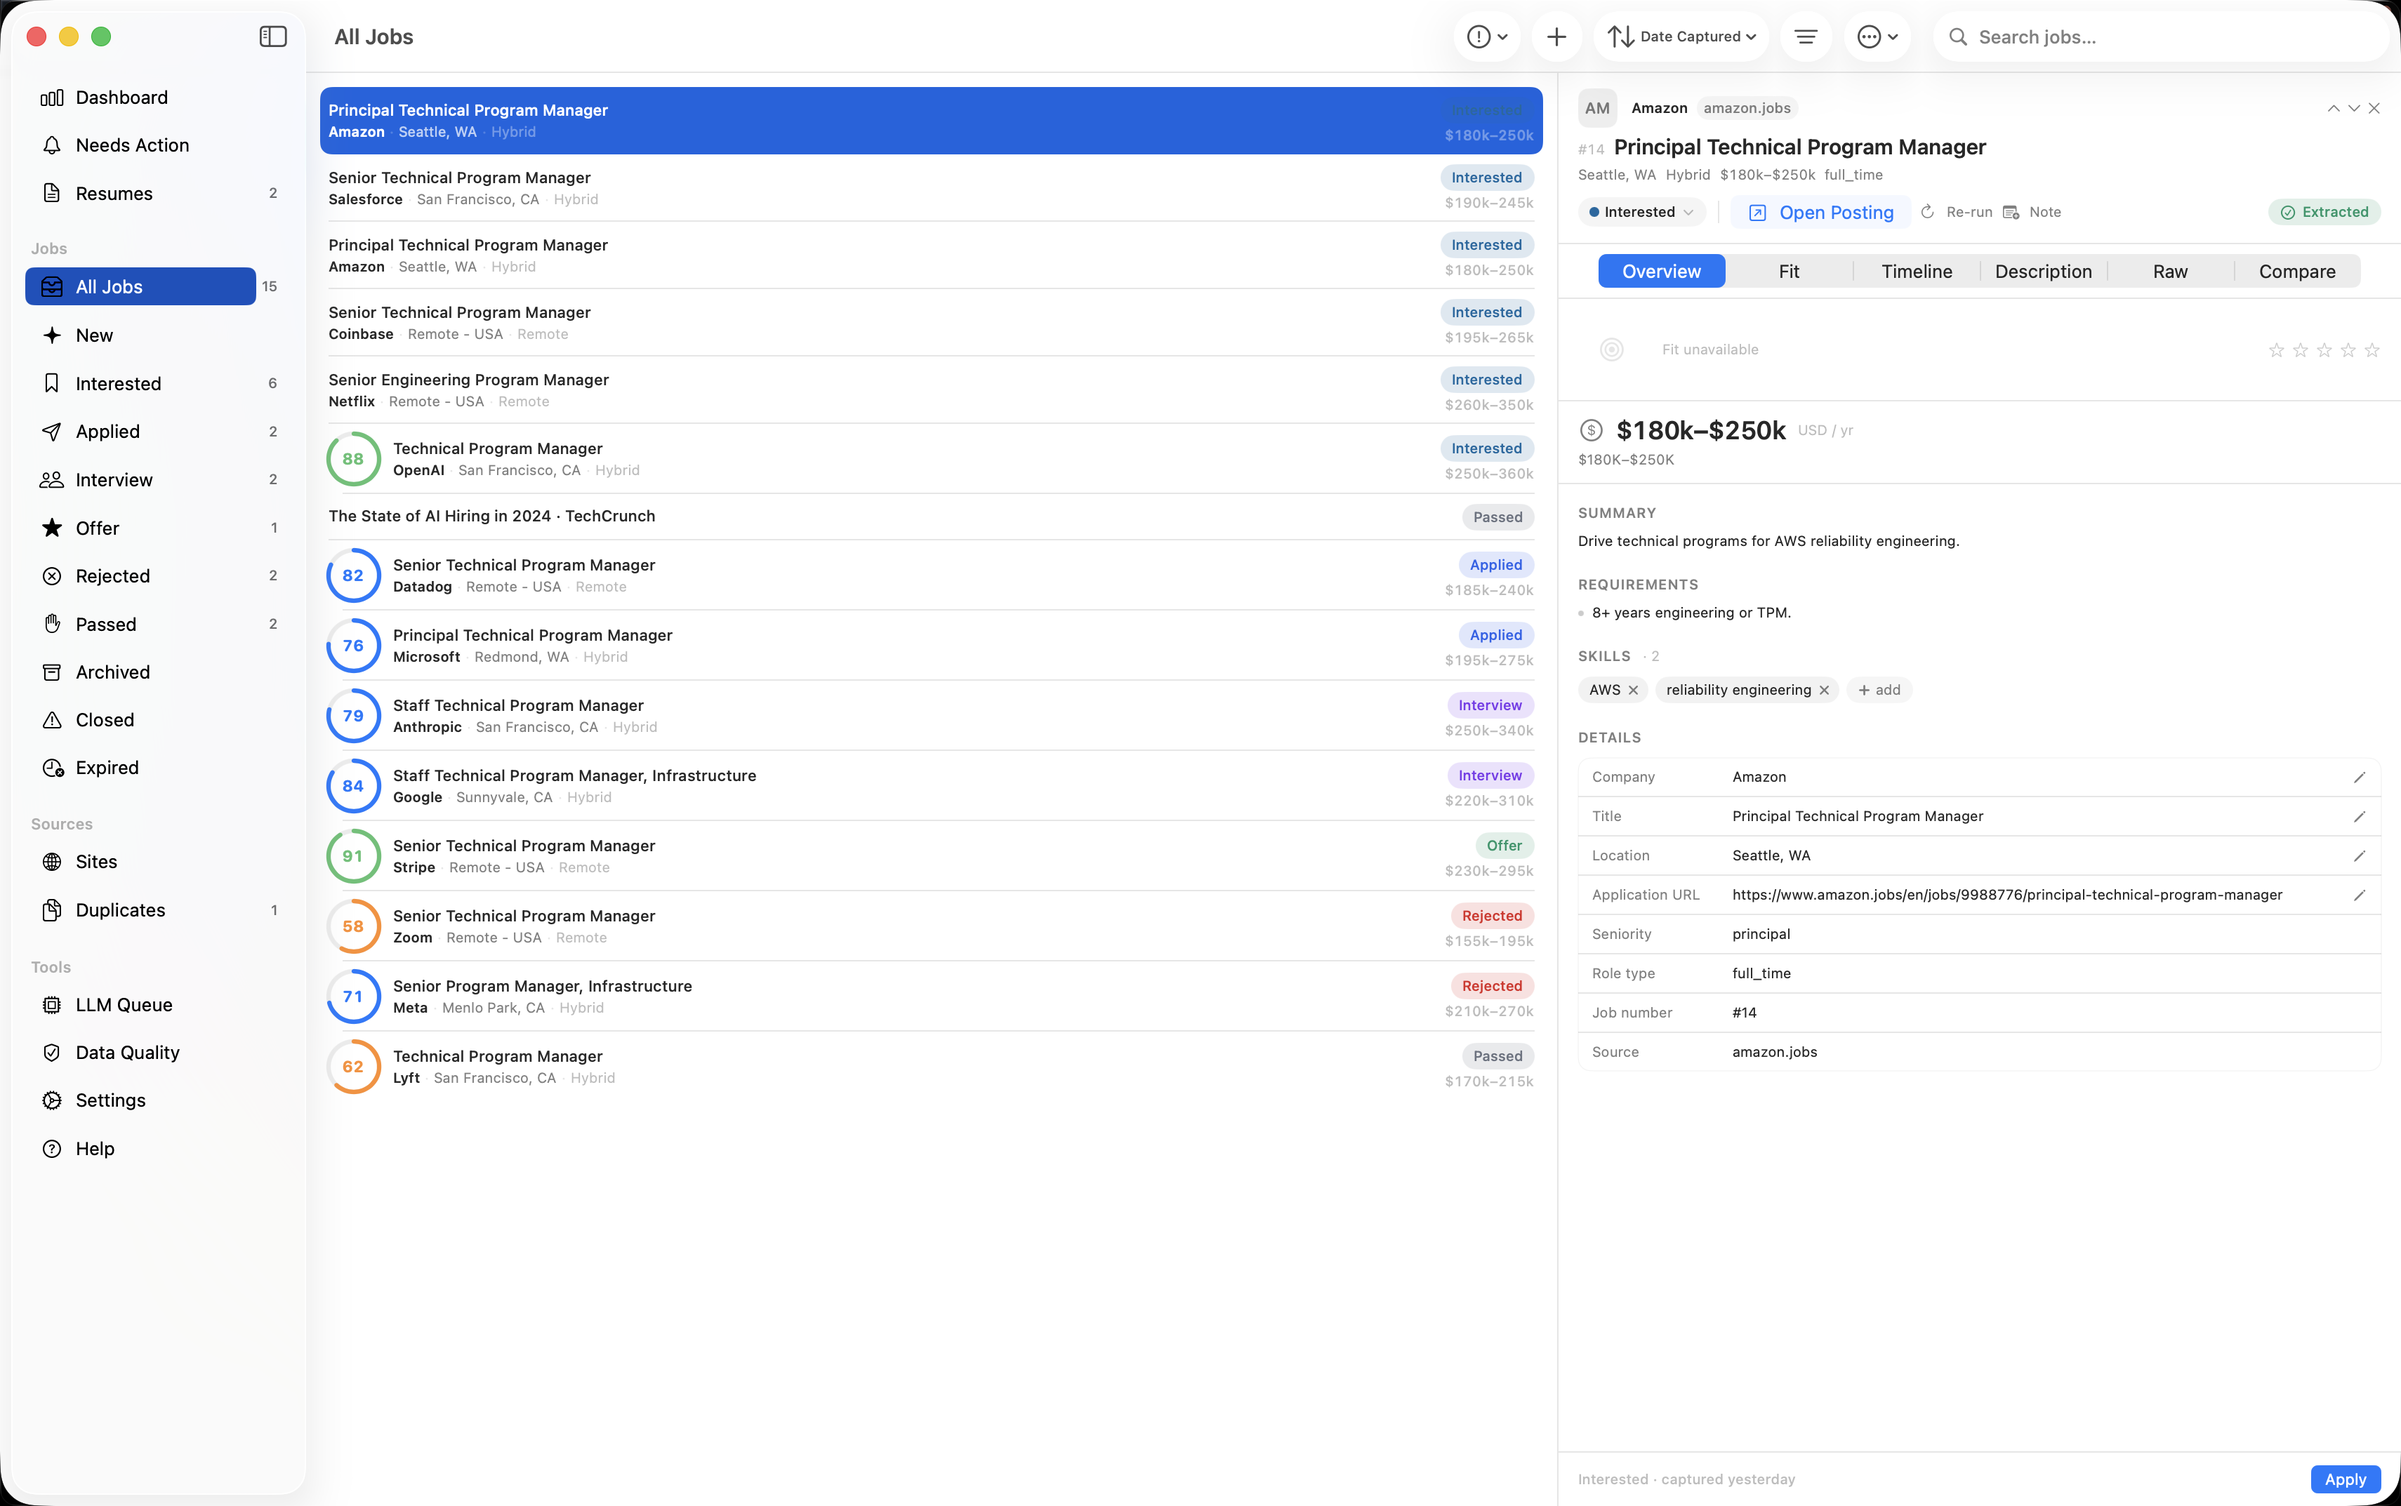
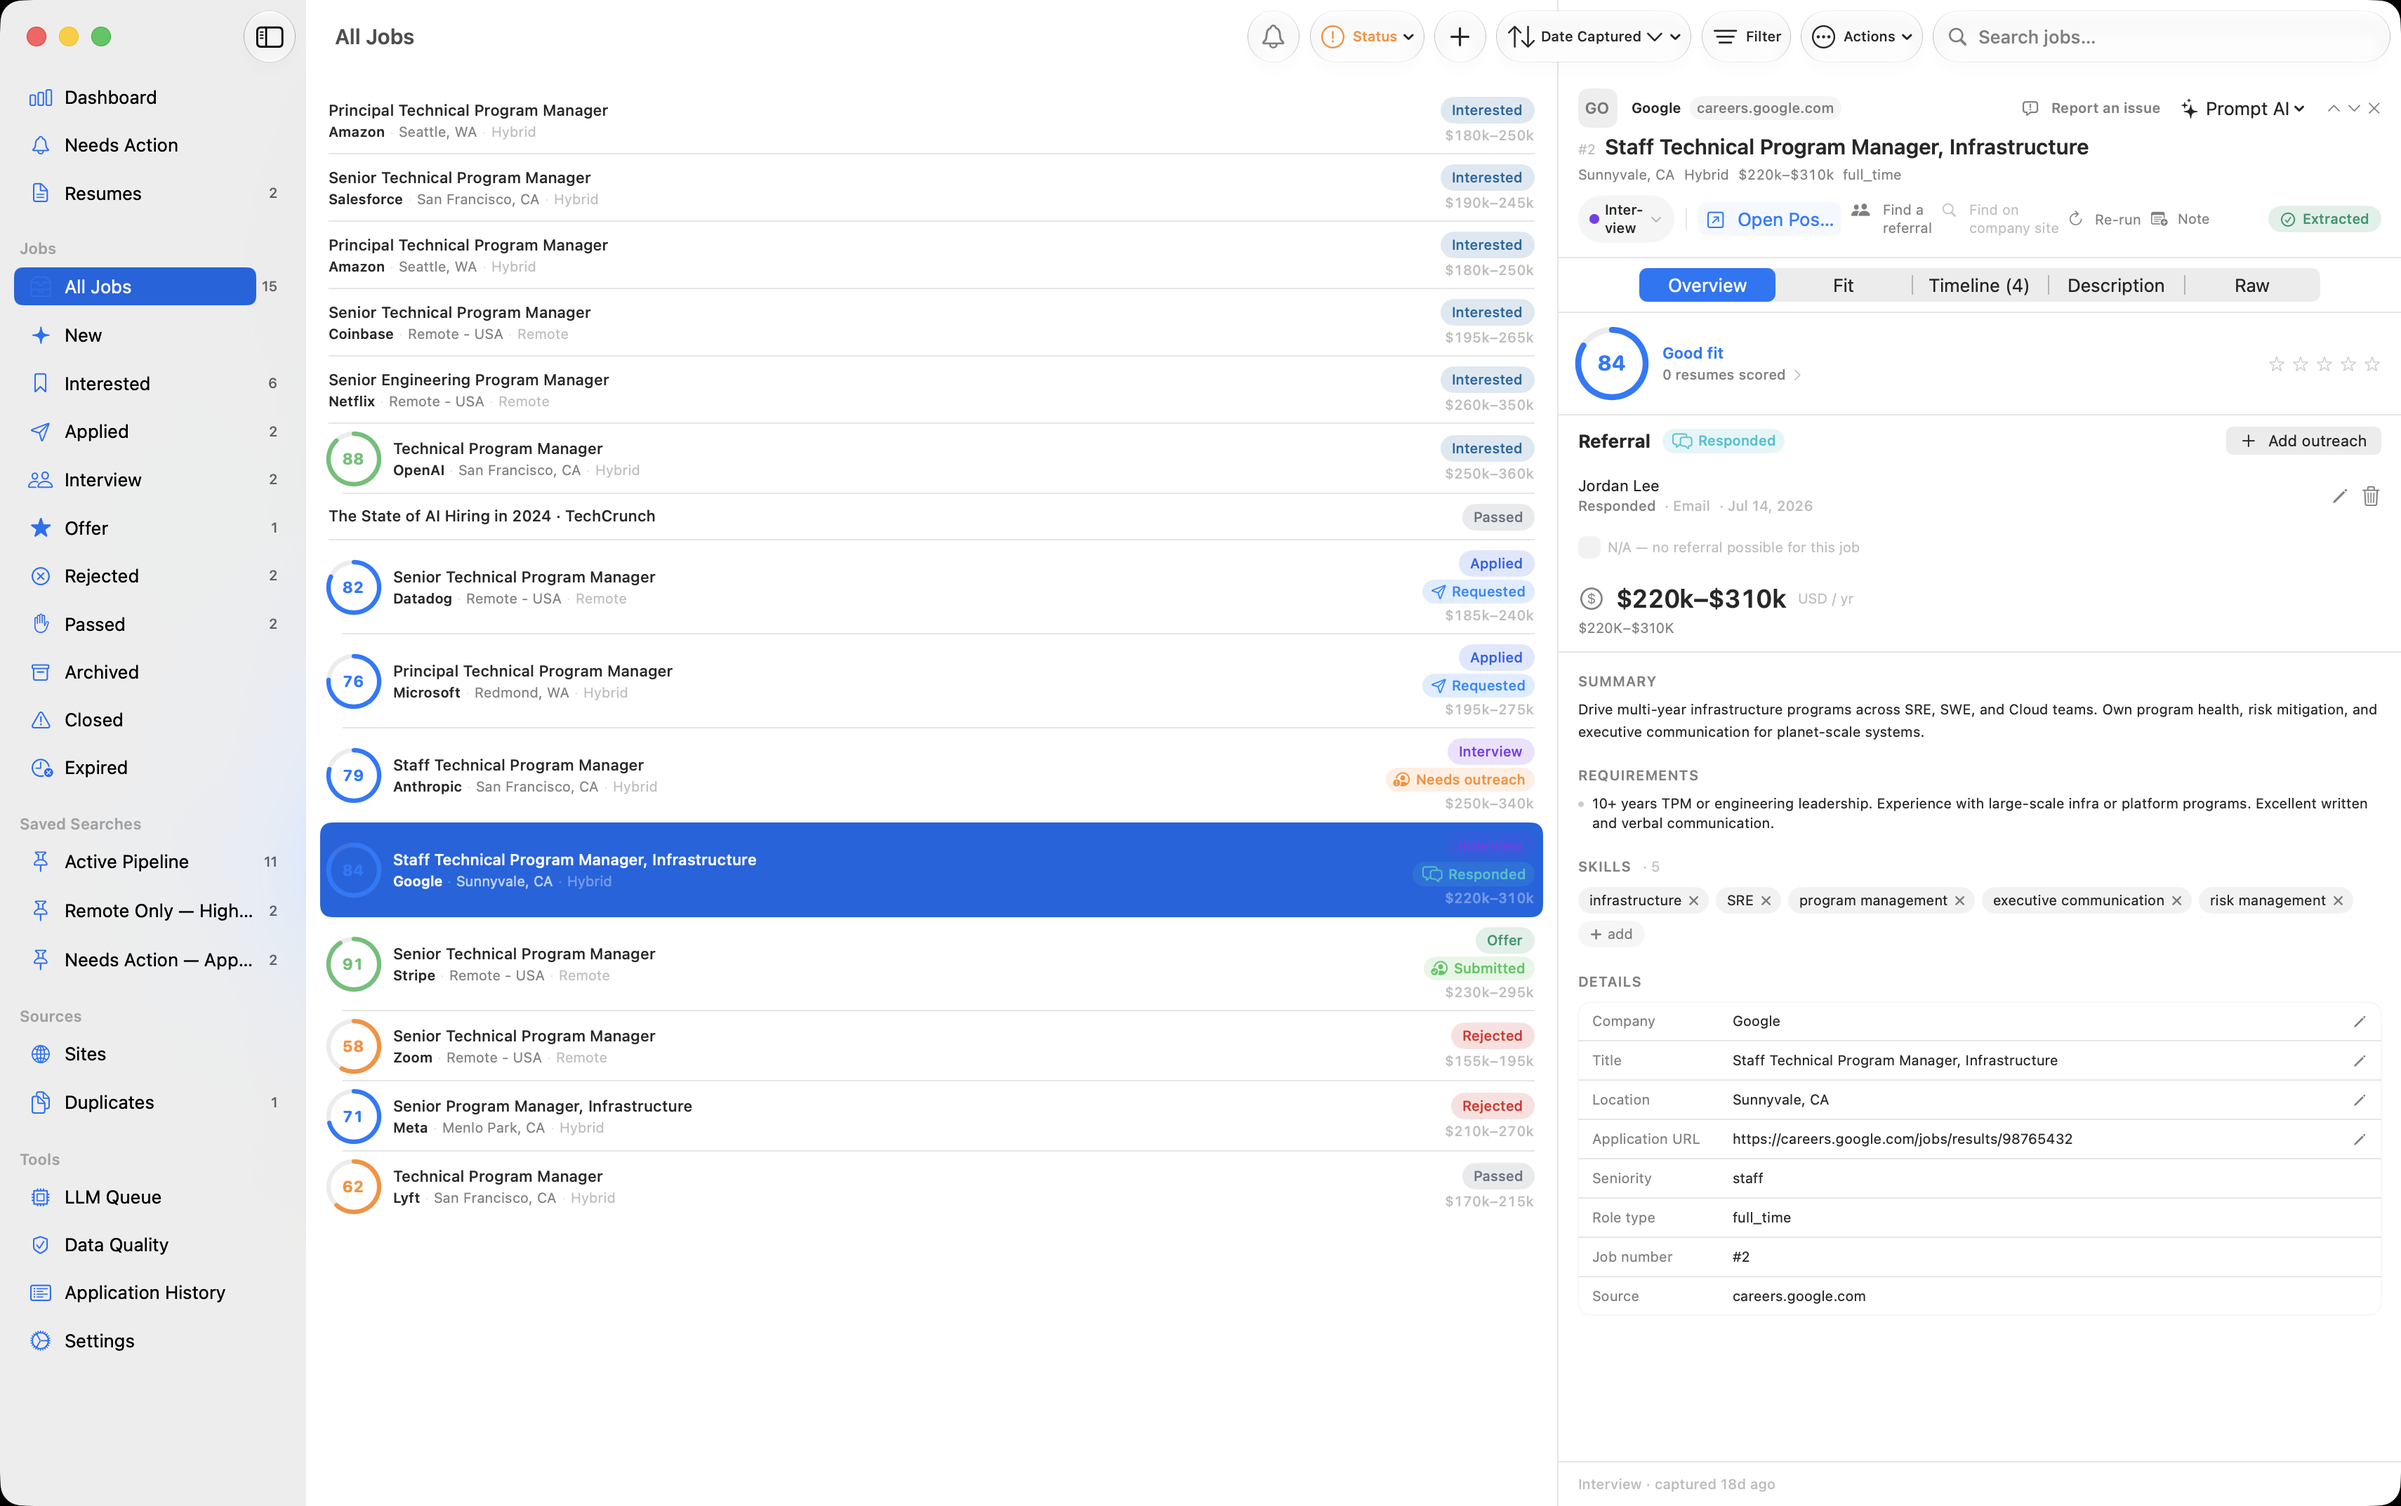
demo + marketing: seed referral data, refresh screenshots for 1.1.0
- DemoSeeder now seeds four referral requests across the demo jobs (one
  submitted, one responded-but-stale, one requested today, one requested
  days ago) plus a note today, so demo/onboarding and marketing shots show
  the new Referral section, row badges, dashboard reminders, and the Today
  recap. ReferralAttempt added to deleteAll for a clean reseed.
- Refreshed marketing/screenshots (dashboard, jobs-detail, duplicates,
  sites) from a seeded demo instance — now showing the Today recap +
  Referrals card, referral badges + detail section + Prompt AI, the
  Keep Both / Mark as Duplicate review, and site review details. Cache
  buster bumped v2 → v3.

diff --git a/core/Demo/DemoSeeder.swift b/core/Demo/DemoSeeder.swift
@@ -50,6 +50,7 @@ extension BackgroundStore {
         try deleteAll(LLMRequest.self)
         try deleteAll(DataQualityReview.self)
         try deleteAll(JobEvent.self)
+        try deleteAll(ReferralAttempt.self)
         try deleteAll(JobAction.self)
         try deleteAll(DuplicateDecision.self)
         try deleteAll(JobFitScore.self)
@@ -492,6 +493,71 @@ extension BackgroundStore {
             modelContext.insert(capture)
             modelContext.insert(job)
         }
+
+        // MARK: Referral requests (demo)
+
+        // A spread of referral states so the detail Referral section, row badge, and dashboard
+        // reminders all have something to show: one submitted, one responded-but-stale (follow-up
+        // nudge), one requested today (Today recap), one requested a few days ago (follow-up nudge).
+        // One funnel job (Anthropic) is intentionally left with no request, so the dashboard's
+        // "needs a referral" prompt has a count.
+        struct SeedReferral {
+            let jobID: String
+            let recipient: String
+            let identifier: String?
+            let channel: String
+            let outcome: ReferralOutcome
+            let requested: Double
+            let responded: Double?
+            let submitted: Double?
+        }
+        let referrals: [SeedReferral] = [
+            .init(jobID: "job_001", recipient: "Alex Rivera",
+                  identifier: "https://www.linkedin.com/in/alexrivera", channel: "LinkedIn",
+                  outcome: .submitted, requested: 20, responded: 18, submitted: 16),
+            .init(jobID: "job_002", recipient: "Jordan Lee", identifier: "jordan.lee@example.com",
+                  channel: "Email", outcome: .responded, requested: 12, responded: 9, submitted: nil),
+            .init(jobID: "job_004", recipient: "Priya Nair",
+                  identifier: "https://www.linkedin.com/in/priyanair", channel: "LinkedIn",
+                  outcome: .requested, requested: 0, responded: nil, submitted: nil),
+            .init(jobID: "job_005", recipient: "Sam Chen", identifier: nil, channel: "Referral portal",
+                  outcome: .requested, requested: 6, responded: nil, submitted: nil)
+        ]
+        for ref in referrals {
+            let jid = ref.jobID
+            let attempt = ReferralAttempt(
+                id: "ref_\(jid)", jobID: jid, recipientName: ref.recipient,
+                recipientIdentifier: ref.identifier, channel: ref.channel,
+                requestedAt: daysAgo(ref.requested),
+                respondedAt: ref.responded.map(daysAgo), submittedAt: ref.submitted.map(daysAgo),
+                outcome: ref.outcome.rawValue
+            )
+            modelContext.insert(attempt)
+            let event = JobEvent(
+                id: "evt_ref_\(jid)", eventType: "referral",
+                note: "Referral requested — \(ref.recipient)",
+                occurredAt: daysAgo(ref.requested), createdAt: daysAgo(ref.requested)
+            )
+            if let job = try modelContext.fetch(
+                FetchDescriptor<Job>(predicate: #Predicate { $0.id == jid })
+            ).first {
+                job.events.append(event)
+            }
+            modelContext.insert(event)
+        }
+
+        // A note added today, so the "Today" recap shows more than a single action.
+        let noteToday = JobEvent(
+            id: "evt_note_today", eventType: "note",
+            note: "Followed up with Jordan about the Google referral.",
+            occurredAt: daysAgo(0.15), createdAt: daysAgo(0.15)
+        )
+        if let job = try modelContext.fetch(
+            FetchDescriptor<Job>(predicate: #Predicate { $0.id == "job_002" })
+        ).first {
+            job.events.append(noteToday)
+        }
+        modelContext.insert(noteToday)
 
         // MARK: Sites
 

diff --git a/marketing/index.html b/marketing/index.html
@@ -13,11 +13,11 @@
   <meta property="og:url" content="https://jobhunt-app.com/" />
   <meta property="og:title" content="JobHunt — Local-first job tracker for Mac" />
   <meta property="og:description" content="Capture job postings, let AI extract the details and score them against your resume, and track your pipeline — all in a native Mac app. No subscriptions. No cloud." />
-  <meta property="og:image" content="https://jobhunt-app.com/screenshots/jobs-detail.png?v=2" />
+  <meta property="og:image" content="https://jobhunt-app.com/screenshots/jobs-detail.png?v=3" />
   <meta name="twitter:card" content="summary_large_image" />
   <meta name="twitter:title" content="JobHunt — Local-first job tracker for Mac" />
   <meta name="twitter:description" content="Capture, extract, score against your resume, and track your job pipeline — all in a native Mac app. Free & open source." />
-  <meta name="twitter:image" content="https://jobhunt-app.com/screenshots/jobs-detail.png?v=2" />
+  <meta name="twitter:image" content="https://jobhunt-app.com/screenshots/jobs-detail.png?v=3" />
   <style>
     *, *::before, *::after { box-sizing: border-box; margin: 0; padding: 0; }
 
@@ -407,10 +407,10 @@
   <div class="carousel-wrap">
     <div class="carousel" id="carousel">
       <div class="carousel-track" id="carouselTrack">
-        <img src="screenshots/jobs-detail.png?v=2" alt="Jobs list with a job selected and its AI-extracted detail panel open" />
-        <img src="screenshots/dashboard.png?v=2" alt="Dashboard with pipeline funnel and top opportunities" />
-        <img src="screenshots/duplicates.png?v=2" alt="Duplicate review with two postings compared side-by-side" />
-        <img src="screenshots/sites.png?v=2" alt="Sites tracking screen with review schedule" />
+        <img src="screenshots/jobs-detail.png?v=3" alt="Jobs list with a job selected and its AI-extracted detail panel open" />
+        <img src="screenshots/dashboard.png?v=3" alt="Dashboard with pipeline funnel and top opportunities" />
+        <img src="screenshots/duplicates.png?v=3" alt="Duplicate review with two postings compared side-by-side" />
+        <img src="screenshots/sites.png?v=3" alt="Sites tracking screen with review schedule" />
       </div>
       <button class="carousel-btn prev" id="carouselPrev" aria-label="Previous">&#8249;</button>
       <button class="carousel-btn next" id="carouselNext" aria-label="Next">&#8250;</button>
